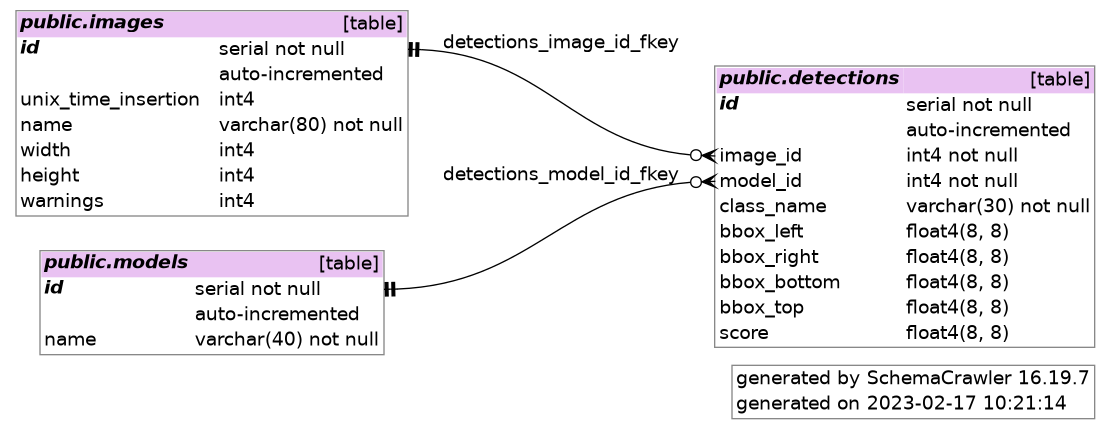
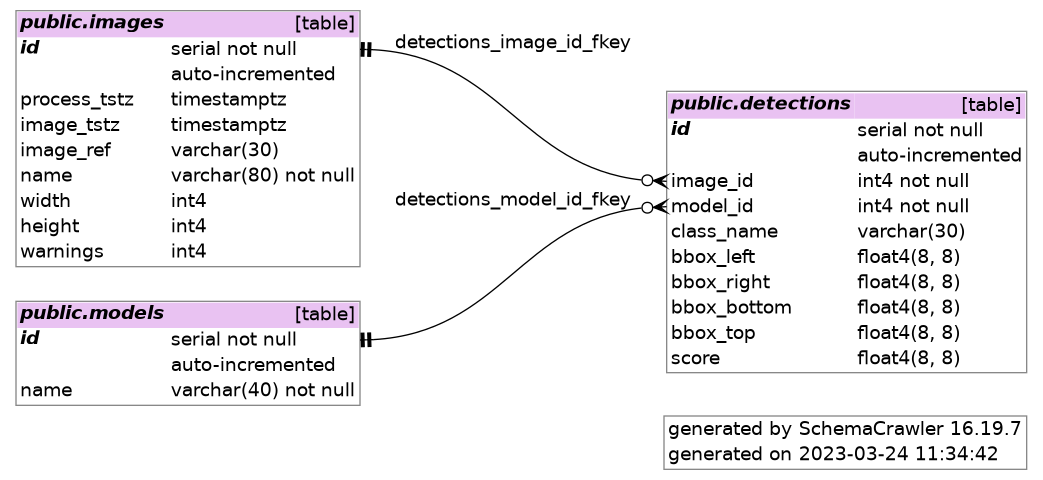
updated query to select data for api

diff --git a/select_to_api.py b/select_to_api.py
@@ -2,14 +2,12 @@
 
 import psycopg2
 import csv
+import sys
 
 
 conn_str = "host=localhost dbname=detections user=postgres"
 
 def execute_query(query):
-    '''Query database to provide data for the api.
-
-    The model should be set to name of desired model.'''
     try:
         # connect to the PostgreSQL database
         connection = psycopg2.connect(conn_str)
@@ -29,35 +27,30 @@ def execute_query(query):
 
 
 def get_data_api(score, model):
+    '''Query database to provide data for the api.
+
+    The model should be set to name of desired model.'''
+
+    #SQL query
     select_data = f'''
-    SELECT i.unix_time_insertion AS processing_tstz, i.name AS image, 
+    SELECT i.process_tstz, i.image_tstz, i.image_ref, 
            i.warnings, d.class_name, d.score
     FROM images i
     LEFT JOIN detections d
         ON i.id = d.image_id
         AND d.score > {score}
-        AND d.model_id IN (SELECT id FROM models WHERE name = '{model}');
+        AND d.model_id IN (SELECT id FROM models WHERE name = '{model}')
+    WHERE i.image_tstz::date = current_date - INTEGER '1';
     '''
     data = execute_query(select_data)
-    header = [data[0][0], 'image_tstz', 'image_ref']
-    header = header + data[0][2:]
 
-    parsed_data = [tuple(header)]
-    for item in data[1]:
-        splitted_image = item[1].split('_') #returns a list
-        #floor division. Closer to reality due to delay in getting timestamp
-        image_timestamp = int(splitted_image[0]) // 1000
-        image_id = splitted_image[1]
-        new_item = (item[0], image_timestamp, image_id) + item[2:]
-        parsed_data.append(new_item)
+    # prepend header to list of selected records
+    data[1][:0] = [tuple(data[0])]
 
     with open('report.csv', 'w') as fp:
         write = csv.writer(fp)
+        write.writerows(data[1])
 
-        write.writerows(parsed_data)
-
-#Next development step: add another condition to the query, to filter the images captured/processed yesterday. The captured is a bit more tricky because that date is the first part of the image name...
-# Furthermore, maybe I also need to filter all the data for yesterday, including all scores, etc....
 
 if __name__ == '__main__':
-    get_data_api(0.1, 'faster_rcnn_1024_parent')
+    get_data_api(sys.argv[1], sys.argv[2])
